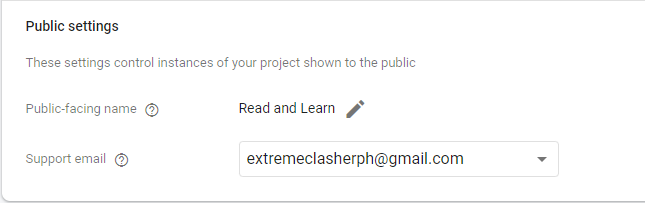
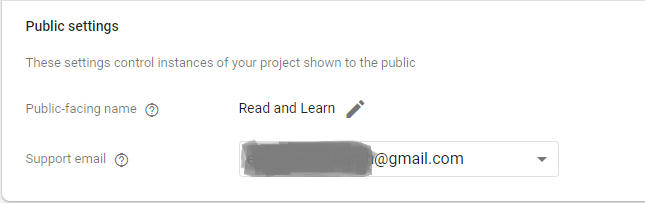
Updated Repo

Changed region(s): [[0.3721, 0.6798, 0.5891, 0.8867]]

diff --git a/lib/screens/parent/settings/settings_panel.dart b/lib/screens/parent/settings/settings_panel.dart
@@ -7,7 +7,6 @@ import 'package:flutter/material.dart';
 import 'package:flutter_cache/flutter_cache.dart' as Cache;
 import 'package:getwidget/getwidget.dart';
 import 'package:google_fonts/google_fonts.dart';
-import 'package:google_sign_in/google_sign_in.dart';
 import 'package:image_picker/image_picker.dart';
 import 'package:ndialog/ndialog.dart';
 import 'package:permission_handler/permission_handler.dart';
@@ -687,6 +686,8 @@ class _SettingsPanelState extends State<SettingsPanel> with SingleTickerProvider
           TextButton(
             onPressed: () async {
               Auth auth = Auth.instance;
+               
+              /* REMOVED FOR NOW
               Map<String, dynamic> userData = await Cache.load('user', <String, dynamic>{});
               bool isGoogle = userData['isGoogle'] as bool;
               print('isGoogle: $isGoogle');
@@ -695,6 +696,7 @@ class _SettingsPanelState extends State<SettingsPanel> with SingleTickerProvider
                 await auth.reauthenticateUser(isGoogle);
                 await GoogleSignIn().signOut();
               }
+              */
 
               await auth.signOutUsingFirebaseAuth();
 

diff --git a/lib/screens/login/components/body.dart b/lib/screens/login/components/body.dart
@@ -78,6 +78,7 @@ class _BodyState extends State<Body> {
 
                         WidgetsBinding.instance!.addPostFrameCallback((_) async {
                           Navigator.of(context).pop();
+                          Navigator.of(context).pop();
 
                           Map<String, dynamic> data = await Cache.load('user', <String, dynamic>{});
                           Map<String, dynamic> userData = user.toJson();

diff --git a/lib/screens/admin/teacher_panel/teacher_screen.dart b/lib/screens/admin/teacher_panel/teacher_screen.dart
@@ -48,7 +48,7 @@ class _TeacherScreenState extends State<TeacherScreen> {
           ),
         ),
         child: Icon(
-          Icons.add_moderator_outlined,
+          Icons.person_add_alt_1_outlined,
           color: Colors.white,
         ),
         backgroundColor: Colors.black87,

diff --git a/lib/screens/admin/parent_panel/parent_screen.dart b/lib/screens/admin/parent_panel/parent_screen.dart
@@ -48,7 +48,7 @@ class _ParentScreenState extends State<ParentScreen> {
           ),
         ),
         child: Icon(
-          Icons.add_moderator_outlined,
+          Icons.person_add_alt_1_outlined,
           color: Colors.white,
         ),
         backgroundColor: Colors.black87,

diff --git a/lib/screens/admin/stories_panel/story_screen.dart b/lib/screens/admin/stories_panel/story_screen.dart
@@ -48,7 +48,7 @@ class _StoryScreenState extends State<StoryScreen> {
           ),
         ),
         child: Icon(
-          Icons.add_moderator_outlined,
+          Icons.bookmark_add_outlined,
           color: Colors.white,
         ),
         backgroundColor: Colors.black87,

diff --git a/README.md b/README.md
@@ -22,6 +22,53 @@
 - :white_check_mark: Analyze reader's accuracy of pronounciation programmatically
 
 ---
+
+### :camera: Screenshots
+
+#### :door: Welcome Panel
+| **Home Panel** | **Login Panel** | **Register Panel** |
+|----------------|-----------------|--------------------|
+| ![s1](./screenshots/welcome/1.png) | ![s5](./screenshots/welcome/2.png) | ![s6](./screenshots/welcome/3.png) |
+
+#### :door: Admin Panel
+
+| **Admins List** | **Teachers List** | **Parents List** |
+|-------------|-----------------|---------------|
+| ![s1](./screenshots/admin/1.png) | ![s5](./screenshots/admin/5.png) | ![s6](./screenshots/admin/6.png) |
+| **Stories List** | **Certificates List** | **Settings List** |
+| ![s4](./screenshots/admin/4.png) | ![s3](./screenshots/admin/3.png) | ![s2](./screenshots/admin/2.png) |
+| **Logout Screen** |
+| ![s8](./screenshots/admin/8.png)
+
+#### :door: Teacher Panel
+
+| **Classes** | **Create Class** | **Classes** |
+|-------------|------------------|-------------|
+| ![s1](./screenshots/teacher/1.png) | ![s2](./screenshots/teacher/2.png) | ![s3](./screenshots/teacher/3.png)
+| **Stories** | **Pending Members** | **Active Members** |
+| ![s4](./screenshots/teacher/4.png) | ![s5](./screenshots/teacher/5.png) | ![s6](./screenshots/teacher/6.png)
+| **Settings** | **Settings** | **Settings** |
+| ![s7](./screenshots/teacher/7.png) | ![s8](./screenshots/teacher/8.png) | ![s9](./screenshots/teacher/9.png)
+
+### :door: Parent Panel
+
+| **Classes** | **Settings** | **Settings** |
+|-------------|--------------|--------------|
+| ![s1](./screenshots/parent/1.png) | ![s2](./screenshots/parent/2.png) | ![s2](./screenshots/parent/2.png) |
+| **Settings** | **Join Class** | **Stories** |
+| ![s4](./screenshots/parent/4.png) | ![s5](./screenshots/parent/5.png) | ![s6](./screenshots/parent/6.png) |
+| **Certificate** | **Active Members** | **Story Content** |
+| ![s7](./screenshots/parent/7.png) | ![s8](./screenshots/parent/8.png) | ![s9](./screenshots/parent/9.png) |
+| **Locked Story** | **Locked Certificate** | **No Stories** |
+| ![s10](./screenshots/parent/10.png) | ![s11](./screenshots/parent/11.png) | ![s12](./screenshots/parent/12.png) |
+| **Delete Account** | **Logout** |
+| ![s13](./screenshots/parent/13.png) | ![s14](./screenshots/parent/14.png) |
+
+---
+### :books: Database Structure
+![Database Structure](./screenshots/database_relationship.png)
+---
+
 ### :hammer: Setup
 - [x] First, create a new project in [Firebase Console](https://console.firebase.com/).
 - [x] Download `google-services.json` and put it in `android/app/` folder.
@@ -35,6 +82,8 @@
 
 #### :lock: Setup Hashes
 - [x] Go to **Project Settings**.
+- [x] Scroll down to **App Settings** and select your **Support Account**
+![Support Account](./screenshots/support_email.png)
 - [x] Scroll down and add your **sha-1** and **sha-256** hashes.
 ![App Hashes](./screenshots/app_hashes.png)
 
@@ -46,6 +95,30 @@
 - [x] Next, go to **Indexes** tab.
 - [x] Then create the following indexes.
 ![Indexes](./screenshots/database_index.png)
+
+---
+
+### :computer: Compiling Application
+- [x] Open terminal and execute:
+```bash
+# Downloads the dependencies
+flutter packages get
+
+# Run in debugging mode
+flutter run --debug
+
+# Run in release mode
+flutter run --release
+```
+
+---
+
+### :computer: Building Application
+- [x] Open terminal and execute:
+```bash
+# Generates an .apk file
+flutter build apk
+```
 
 ---
 
